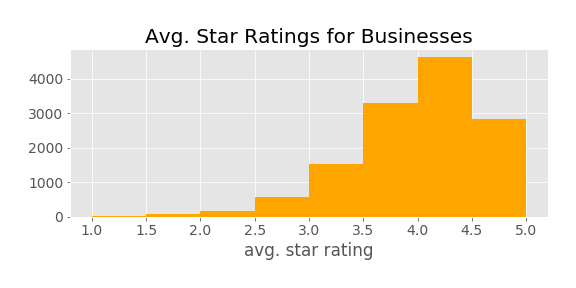
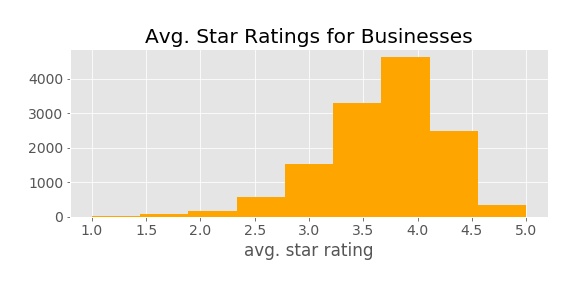
Writing readme

diff --git a/src/yelp_plots.py b/src/yelp_plots.py
@@ -61,7 +61,7 @@ if __name__ == '__main__':
     plot_barh(x, y, title=title, color=category_colors, save=True)
 
     # Plot histrograms businesses
-    businesses_df.plot_stars_hist(title='Avg. Star Ratings for Businesses', save=True)
+    businesses_df.plot_stars_hist(bins=9, title='Avg. Star Ratings for Businesses', save=True)
     businesses_df.plot_review_counts_hist(cutoff=2000, title='Review Counts for Businesses', save=True)
 
     # Violin plots for businesses

diff --git a/README.md b/README.md
@@ -1,55 +1,70 @@
 # Yelp-Reviews
-Capstone 1 project analyzing yelp user, review and business data
 
-## Background / Context
+<div style="text-align:center"><img src="images/Yelp_dataset.png" /></div>
 
-## Data
+<div style="text-align:center"><img src="images/Yelp_dataset_mini.png" /></div>
 
-.json files -- too big to go into GitHub
+## Project Question / Goal
 
-Businesses:
-192,609 businesses
-Across 10 metro areas in the US and Canada... 1258 distinct city, state combinations
+Rating websites that allow users to provide numerical ratings of movies, restaurants, products, etc. can be helpful to consumers, however often times the ratings seem to center around a certain number, e.g., 
 
-Subsetted businesses to ones with at least 100 reviews.  N = 13,124
+Yelp.com is a website that allows people to give a star rating of 1-5 for local businesses they've visited - including restaurants, shops, bars, mechanics, etc.  As a frequent user and contributer on Yelp.com, I'm interested in the distribution of these ratings, and how they may vary across cities, types of businesses, users, etc.  It seems that ratings tend to center around ~4 stars, and most businesses have an average star rating of 3.5 to 4.5 stars.
 
-Reviews:
-Flat schema (every field is at top level)
+I'm also interested to see if types of businesses vary b
 
-Users:
-Pretty flat, other than "elite" : array of ints (years user was elite). Could get count of years elite and/or most recent year
-                        "friends" : array of strings with user ids. Maybe just do a count of friends
-
-NOTES ON BUSINESSES SCHEMA:
-All attributes are strings.  Some, like 'AcceptsInsurance' are values True, False, None or null.
-Some like AgesAllowed, Alcohol, are categories:
+Yelp provides <a href="https://www.yelp.com/dataset">an open dataset</a> for academic/research purposes, available as downloadable .json files.  It includes a subset of Yelp businesses, reviews, users, photos, "tips", and "check-ins" across 10 metro areas in the U.S. and Canada, over the years 2004-2014.  For this project, I focused on the businesses and users data, investigating average star ratings and review counts across various attributes of the businesses.
 
 
-But then some like Ambience, BusinessParking, etc. are strings that look like dictionaries:
+## Data Description
+
+The Yelp data is provided in .json files, one file each for businesses, users, and reviews.  There are 192,609 businesses and 1,637,138 users.  I initially wanted to also include the review data in my analysis (6M+ reviews), but for this exploratory data analysis project I excluded it.
+
+The users data schema (in json) was flat, however the businesses schema included heirarchial structures for the attributes that needed to be flattened in order to work with them efficiently.  Also, the 'categories' column for businesses lists all of the categories that apply to a business (e.g., one business could have Restaurant, Chinese, Bar, etc.) so to get the top most frequently used categories I had to split these out.  The json files were read into Spark dataframes.
+
+Lastly, I subsetted the businesses and user data to only businesses with at least 100 reviews and only users with at least 200 reviews.  I used this as a proxy to look at 'established' businesses and frequent Yelp users, and also served to reduce the size of the data frames so they could be converted to pandas.  This left me with 13,124 businesses and 30,788 users.
 
 
+## Exploratory Data Analysis
+
+For this EDA project, I wanted to look primarily at the distribution of star ratings for different business and user attributes.  Every business and user has an "average star rating" that is the average of all ratings for that business/user.  Since I only included businesses and users with a substantial number of reviews, these average ratings should be representative for the business/user, and not include, for example, a 2-star business with only five reviews.
 
 
+## Overview of the businesses
 
-## Getting a sense of the businesses in the dataset - type, locations, # reviews
+I started out by getting a picture of the businesses in the dataset, including locations, types of businesses, number of reviews for each, etc.
+
+This chart shows the top 10 most frequent categories for the businesses.  Unsurprisingly, 'Restaurant' is by far the most frequent category, followed by 'Food', 'Nightlife' and 'Bar'.  Remember that a business can be assigned multiple categories, and many businesses fall into multiple categories.
 
 <div style="text-align:center"><img src="images/Top 10 business categories.png" /></div>
 
+Next I looked at the number of reviews each business has.  Since I only included businesses with at least 100 reviews, businesses with fewer than this (which is the large majority of businesses in the original dataset) are not shown.  Also, you can see that the number of reviews per business falls off very sharply, with few businesses having more than 500 reviews.
+
 <div style="text-align:center"><img src="images/Review Counts for Businesses.png" /></div>
 
+Lastly in the initial overview, I wanted to see what were the 10 metro areas included in the dataset.  The first chart shows the top ten cities in the dataset -- note that a metro area may include multiple cities, e.g., Henderson is part of the Las Vegas metro area and Scottsdale is near Phoenix.
+
 <div style="text-align:center"><img src="images/Number of Businesses by city.png" /></div>
+
+To see all of the metro areas geographically, I made a heatmap of the businesses.
 
 <div style="text-align:center"><img src="images/10_metro_areas_heatmap.png" /></div>
 
 
 ## Looking at average star ratings
 
+Next, I looked at the average star rating distributions for the businesses.  A business' average star rating is given in half-stars (1.0, 1.5, 2.0, 2.5, etc.).  Not surprisingly, the average ratings center around 4, with very few having an average rating of 3 or less.
+
 <div style="text-align:center"><img src="images/Avg. Star Ratings for Businesses.png" /></div>
 
-<div style="text-align:center"><img src="images/Star Distributions by city.png" /></div>
+Next, I compared the average ratings of restaurants to other 'non-restaurant' types of businesses.  This does show variation in the ratings distributions, with many more "other" businesses having 4.5 and 5-star ratings.  From my experience on Yelp.com, I do this pattern -- a flower shop or mechanic is more likely to have a 5-star rating, while restaurants seem to be mostly in the range of 3.5 to 4.5 stars.
 
 <div style="text-align:center"><img src="images/Avg. Star Ratings of Restaurant vs. Other business types.png" /></div>
 
+Then I looked at the star ratings by city (for the top 5 cities with the most businesses).  This also shows variation, with Phoenix and Las Vegas having higher average ratings, and Toronto having substantially lower ratings.  In a future analysis, it may be interesting to compare other aspects of these cities (sunshine index, happiness, # of tourists vs. locals, income) to see if any of these variables may be associated with the variation in yelp ratings.
+
+<div style="text-align:center"><img src="images/Star Distributions by city.png" /></div>
+
+Finally, I looked how the number of reviews for a buiness is associated with its average star rating.  This chart shows that the businesses with the most reviews have ratings between 2.5 and 4.5 stars, and that the more reviews a business gets, the more it tends towards 3.5-4 star average (the mean of the averages is 3.77).
 
 <div style="text-align:center"><img src="images/Avg. Star Rating vs. Number of Reviews.png" /></div>
 
@@ -79,34 +94,6 @@ If we only look at users with at least 200 reviews, this decreases the number of
 
 <div style="text-align:center"><img src="images/User Review Counts.png" /></div>
 
-
-user_id, average_stars, elite, review_count, yelping_since
-
-
-
-
-REVIEWS:
-ids, stars, text, date
-
-
-
-First review
-+-------------------+
-|          min(date)|
-+-------------------+
-|2004-10-12 10:13:32|
-+-------------------+
-
-Most recent review:
-+-------------------+
-|          max(date)|
-+-------------------+
-|2018-11-14 18:13:26|
-+-------------------+
-
-## Initial Observations
-
-## Methods
 
 
 
